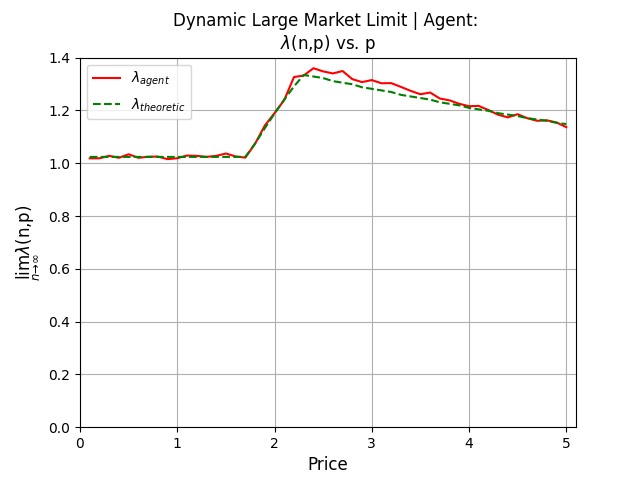
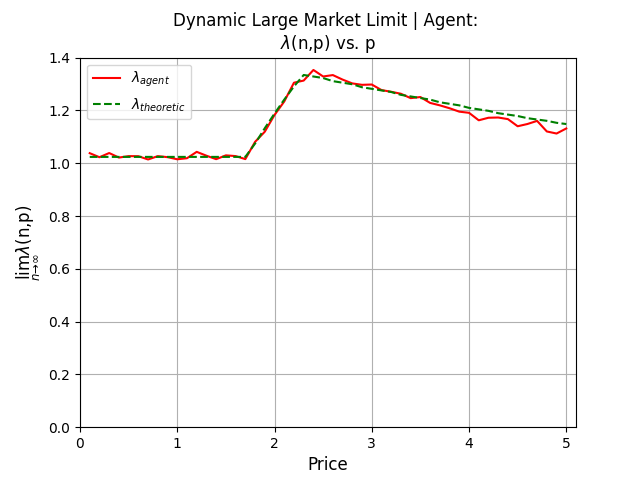
Commit

diff --git a/main.py b/main.py
@@ -18,15 +18,15 @@ shape = 2                       # Shape GAMMA distribution
 ### Simulation ###
 p_max = 5.1                     # Upper price limit for simulation
 n = 3300                        # Static Pricing | Simulating n matches of passengers and drivers in the system
-m = 1                           # Building the average of m occurrences for every price p
-time = 1500                     # Dynamic Pricing | Time simulation of dynamic pricing
+m = 2                           # Building the average of m occurrences for every price p
+time = 5000                   # Dynamic Pricing | Time simulation of dynamic pricing
 
 if __name__ == '__main__':
     ### Static | Large market limit | Theoretic
-    # static_theoretic.main(mu_0, q_exit, lambda_0, gamma, tau, shape)
+    static_theoretic.main(mu_0, q_exit, lambda_0, gamma, tau, shape)
     ### Static | Large market limit | Agent
-    # static_agent.main(mu_0, q_exit, lambda_0, gamma, tau, shape, n, m, p_max)
+    static_agent.main(mu_0, q_exit, lambda_0, gamma, tau, shape, n, m, p_max)
     # Dynamic | Large market limit | Theoretic
-    # dynamic_theoretic.main(mu_0, q_exit, lambda_0, gamma, tau, shape, theta)
+    dynamic_theoretic.main(mu_0, q_exit, lambda_0, gamma, tau, shape, theta)
     ### Dynamic | Large market limit | Agent                                                                                                                                                                                                                                                                                                                                                                                                                                                                                                                                                                                                                                                                                                                                                                                                                                                                                                                                                                                                                                                                                                                                                                                                                                                                                                                                                                                                                                                                                             namic | Large market limit | Agent
     dynamic_agent.main(mu_0, q_exit, lambda_0, gamma, tau, shape, theta, m, p_max, time)

diff --git a/dynamic_agent.py b/dynamic_agent.py
@@ -16,7 +16,7 @@ def main(mu_0, q_exit, lambda_0, gamma, tau, shape, theta, m, p_max, time):
     column_names = ["Price i", "Time", "Drivers arrived to system", "Driver arrival rate | Agent",
                     "Driver arrival rate | Theoretic", "Expected earnings per ride | Agent",
                     "Expected earnings per ride | Theoretic", "Revenue | Agent", "Revenue | Theoretic"]
-    df_result = pd.DataFrame(columns=column_names)
+    df_result = pd.DataFrame(columns=column_names, dtype=float)
     for i in np.arange(0.1, p_max, 0.1):
         p_high = i
         # if p_high and p_low arr smaller than p_bal --> higher price is set by platform
@@ -51,7 +51,7 @@ def main(mu_0, q_exit, lambda_0, gamma, tau, shape, theta, m, p_max, time):
             # Duplicates to drop as we would count the price multiple times for the same ride
             df.drop_duplicates(subset=['start'], keep=False, inplace=True)
             # Only use second half of the df
-            # df.drop(df.head(int(len(df)/2)).index, inplace=True)
+            df.drop(df.head(int(len(df)/2)).index, inplace=True)
             df_result.loc[j, "Price i"] = i
             df_result.loc[j, "Time"] = s.clock
             df_result.loc[j, "Drivers arrived to system"] = s.arrivedDrivers
@@ -67,7 +67,7 @@ def main(mu_0, q_exit, lambda_0, gamma, tau, shape, theta, m, p_max, time):
                                                                          df_result.loc[
                                                                              j, "Driver arrival rate | Theoretic"]
             df_result.loc[j, "Revenue | Agent"] = s.arrivedDrivers / s.clock * df_result.loc[j, "Expected earnings per ride | Agent"]
-            df_result.loc[j, "Revenue | Theoretic"] = Model_Queue.Revenue_dynamic(p_low, p_high, p_bal, mu_0, q_exit, tau,
+            df_result.loc[j, "Revenue | Theoretic"] = Model_Queue.Revenue_dynamic(p_low, i, p_bal, mu_0, q_exit, tau,
                                                                                   lambda_0, shape, gamma, theta)
             # Iterate
             j += 1
@@ -75,10 +75,8 @@ def main(mu_0, q_exit, lambda_0, gamma, tau, shape, theta, m, p_max, time):
     # Check results for all iterations
     df_result.to_excel("result.xlsx")
     # Group multiple simulations m by price i
-    if m != 1:
-        df_ = df_result.groupby(df_result['Price i']).mean()
-    else:
-        df_ = df_result
+    df_ = df_result.groupby(df_result['Price i']).mean()
+
     ### PLOT ###
     Model_Queue.plotDynamicAgentLambda(df_, p_max)
     Model_Queue.plotDynamicAgentRevenue(df_, p_max)
